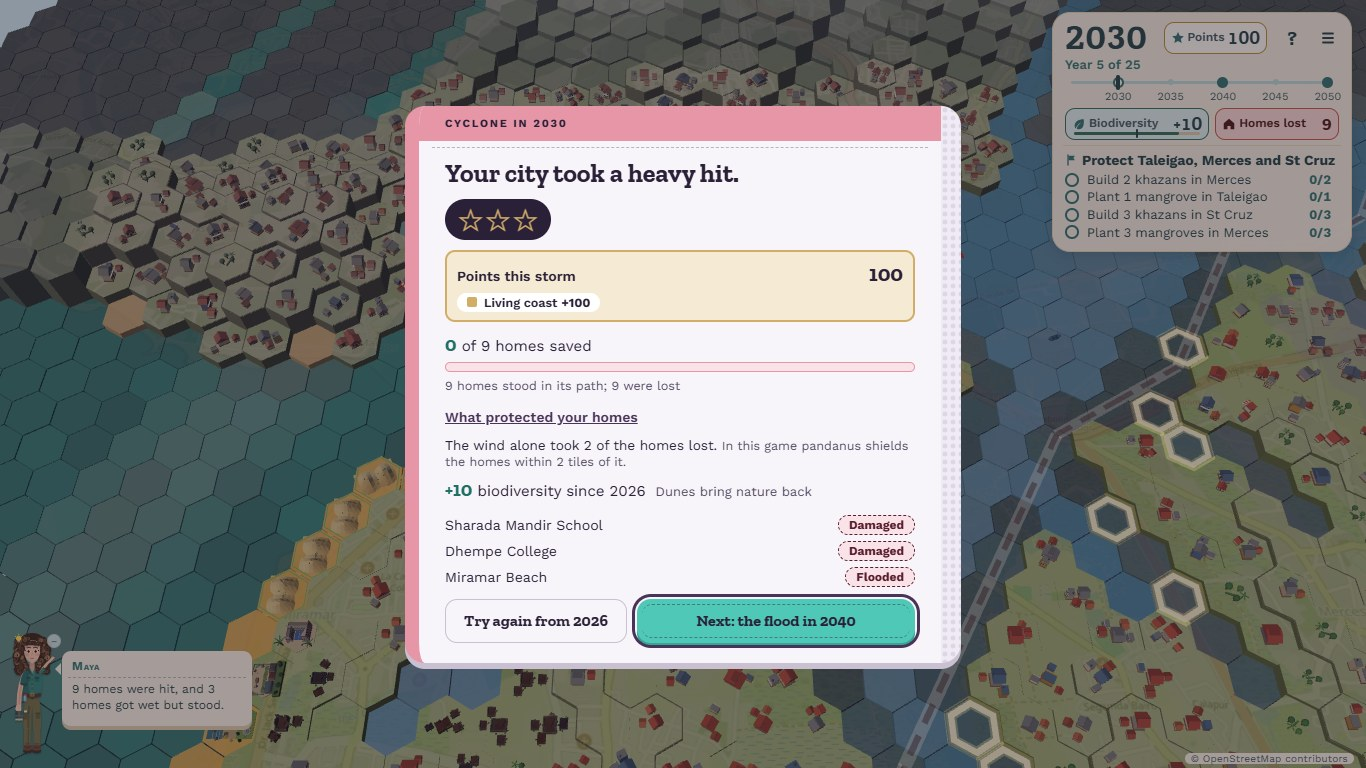
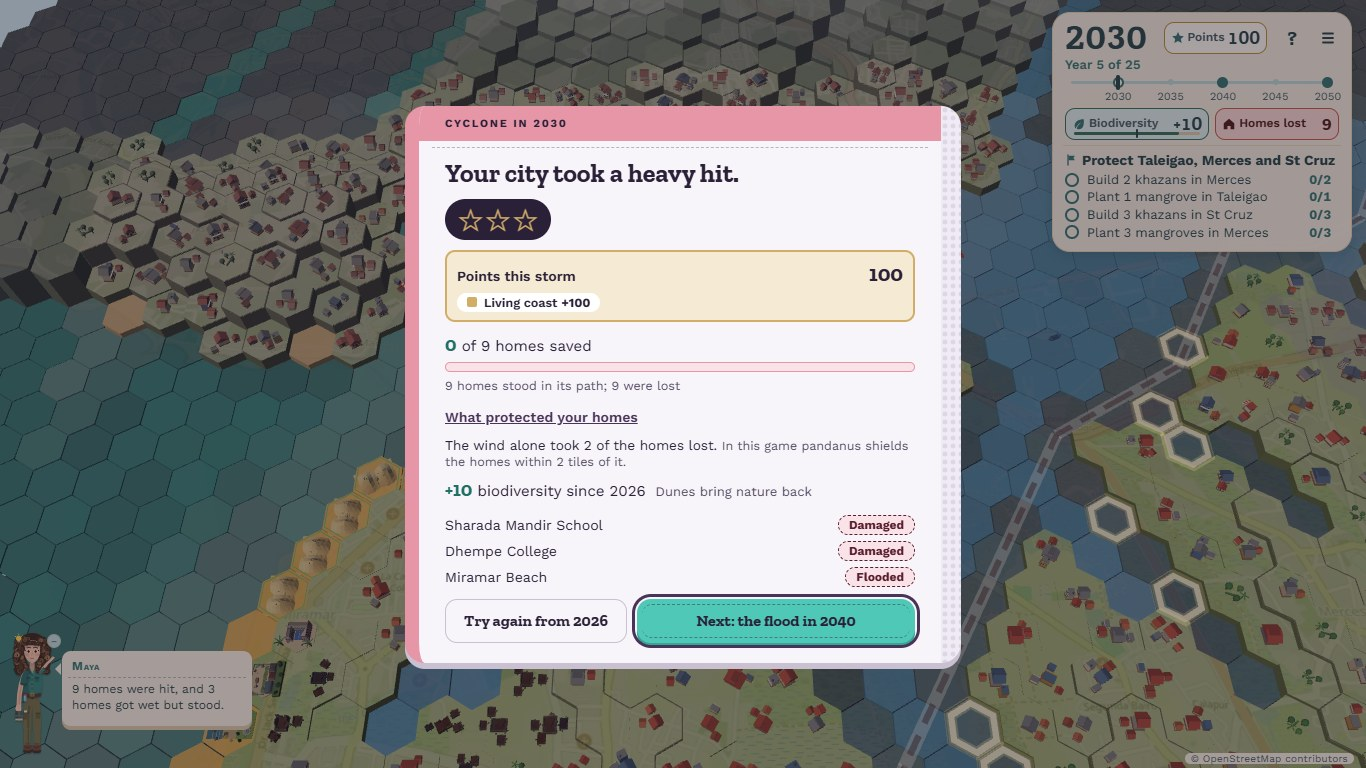
40.7 owner's answers

diff --git a/tests/howToPlay.test.ts b/tests/howToPlay.test.ts
@@ -26,7 +26,9 @@ describe("How to play's numbers", () => {
 
   it("lists the three storms with their years, kinds, places and the turns between them", () => {
     expect(m.storms.map((s) => `${s.year} ${s.label}`)).toEqual(["2030 Cyclone", "2040 Flood", "2050 Both"]);
-    expect(m.storms.map((s) => s.where)).toEqual(["Miramar beach", "down the Mandovi", "cyclone and flood, Campal"]);
+    // Section 40.7 (owner): the place alone, from the level's own storms.
+    expect(m.storms.map((s) => s.where)).toEqual(["Miramar beach", "Ribandar to Taleigao", "Campal"]);
+    expect(m.storms.map((s) => s.where)).toEqual([...panjim.climate!.challenges].sort((a, b) => a.year - b.year).map((c) => c.where));
     expect(m.storms.map((s) => s.turns)).toEqual([5, 10, 10]);
     // The turns add up to the run's builds: the last storm comes at the end of the last year.
     expect(m.storms.reduce((n, s) => n + s.turns, 0)).toBe(m.builds);
@@ -167,6 +169,9 @@ describe("Section 40.3: How to play in three screens", () => {
       "A cyclone and a flood at the same time"
     ]);
     expect([...one.matchAll(/class="howto-storm howto-storm-([a-z]+)"/g)].map((x) => x[1])).toEqual(["cyclone", "flood", "compound"]);
+    // Section 40.7 (owner): the chip under each storm is the place alone; the line above it stays.
+    expect([...one.matchAll(/<span class="howto-storm-where">([^<]+)<\/span>/g)].map((x) => x[1])).toEqual(["Miramar beach", "Ribandar to Taleigao", "Campal"]);
+    for (const chip of one.matchAll(/<span class="howto-storm-where">([^<]+)<\/span>/g)) expect(chip[1]).not.toMatch(/cyclone|flood|Mandovi|down/i);
   });
 
   it("screen 2: the year's three steps, the legend and the seven defenses with their chips, all from the data", () => {
@@ -202,12 +207,18 @@ describe("Section 40.3: How to play in three screens", () => {
       "Wind: comes with every cyclone"
     ]);
     expect(three).toContain("<h3>Get points</h3>");
-    expect(three).toContain(`<b>Save homes</b><p>Every home still standing after a storm scores.</p><span class="howto-point-chip">${POINT_VALUES.home} points a home</span>`);
+    // Section 40.7 (owner): the two lines say the rule; the year is the level's end year, not typed in.
+    expect(three).toContain(`<b>Save homes</b><p>Every home in a storm's path that still stands scores.</p><span class="howto-point-chip">${POINT_VALUES.home} points a home</span>`);
     expect(three).toContain(
-      `<b>Increase biodiversity</b><p>Nature based defenses like mangroves and khazans add Biodiversity Points. Dams and seawalls (concrete and metal) reduce them.</p><span class="howto-point-chip">${POINT_VALUES.biodiversity} points for each Biodiversity Point you add</span>`
+      `<b>Increase biodiversity</b><p>Nature based defenses like mangroves and khazans add Biodiversity Points. Dams and seawalls (concrete and metal) reduce them.</p><span class="howto-point-chip">${POINT_VALUES.biodiversity} points for each Biodiversity Point you add, counted in ${panjim.timeline!.endYear}</span>`
     );
     expect(three).toContain("10 points a home");
-    expect(three).toContain("5 points for each Biodiversity Point you add");
+    expect(three).toContain("5 points for each Biodiversity Point you add, counted in 2050");
+    expect(three).not.toContain("Every home still standing after a storm scores.");
+    // Another level's end year would show: the year comes from the model.
+    const other = howToPlayHtml({ ...m, endYear: 2060 });
+    expect(other).toContain("you add, counted in 2060");
+    expect(readFileSync("src/ui/panjim/howToPlay.ts", "utf8")).toContain("you add, counted in ${m.endYear}</span>");
   });
 
   it("keeps the player text rules: no middle dot, no spaced dash, no hyphen joining words, and defense", () => {

diff --git a/tools/section40Shots.ts b/tools/section40Shots.ts
@@ -221,7 +221,7 @@ try {
     const card = ".result-cards:not([hidden])";
     check((await colour(page, `${card} .result-eyebrow`)) === rgb("#e696a6") && (await colour(page, `${card} .result-eyebrow`, "color")) === rgb("#2a2038"), "the card's band is pink with dark ink");
     check((await colour(page, `${card} .result-stars`)) === rgb("#2a2038") && (await colour(page, `${card} .result-stars`, "color")) === rgb("#d2ad68"), "the stars are gold on a dark pill");
-    check((await colour(page, `${card} .result-bar span`)) === rgb("#4fc8b7") && (await colour(page, `${card} .result-bar`)) === rgb("#fae3e8"), "the homes saved bar: teal on the soft pink track");
+    check((await colour(page, `${card} .result-bar span`)) === rgb("#1f6f64") && (await colour(page, `${card} .result-bar`)) === rgb("#fae3e8"), "the homes saved bar: the dark teal on the soft pink track (Section 40.7)");
     check((await colour(page, `${card} .result-points`)) === rgb("#f5ead3"), "Points this storm sits in the soft gold box");
     check((await colour(page, `${card} .result-next`)) === rgb("#4fc8b7") && (await colour(page, `${card} .result-retry`)) === "rgba(0, 0, 0, 0)", "the main button is teal; Try again is the quiet style");
     const fits = await js<boolean>(page, `(() => { const c = document.querySelector(".result-cards:not([hidden]) .result-card"); const r = c.getBoundingClientRect(); return r.top >= 0 && r.bottom <= innerHeight && c.scrollHeight <= c.clientHeight + 1; })()`);
@@ -300,7 +300,7 @@ try {
       await shot(page, "8b-last-card-board-top", 400);
       // A chosen feedback star.
       await page.click('.fb-row .fb-star[data-value="4"]');
-      check((await colour(page, ".fb-row .fb-star.on")) === rgb("#d2ad68") && (await colour(page, ".fb-row .fb-star:not(.on)")) === rgb("#f7f5f9"), "a chosen star button is gold, an empty one light");
+      check((await colour(page, ".fb-row .fb-star.on")) === rgb("#d2ad68") && (await colour(page, ".fb-row .fb-star:not(.on)")) === rgb("#f7f5f9") && (await colour(page, ".fb-row .fb-star:not(.on)", "borderTopColor")) === rgb("#a075ae"), "a chosen star button is gold, an empty one light with a purple edge (Section 40.7)");
       // The nudge, from a footer button.
       await page.click('.last-action[data-action="exit"]');
       await page.waitForSelector(".result-nudge", { timeout: 10000 });

diff --git a/tests/theme.test.ts b/tests/theme.test.ts
@@ -93,6 +93,16 @@ const FIVE_PAIRS: [string, string, boolean?][] = [
   ["ink-2", "blue-soft"],
   ["ink-2", "purple-soft"]
 ];
+/**
+ * Section 40.7 (owner): marks that are not text but carry meaning, each at 3:1 or better on its ground: the homes
+ * saved bar's fill on its track, the bars on "What protected your homes" on theirs, and an empty feedback star's
+ * outline and edge on its button.
+ */
+const FIVE_MARKS: [string, string][] = [
+  ["good", "warn-soft"],
+  ["good", "panel-shadow"],
+  ["strip", "panel"]
+];
 const FIVE_ALLOWED = new Set(FIVE_PAIRS.map(([t, b]) => `${t}|${b}`));
 /** The variables only the block has. */
 const FIVE_ONLY = Object.keys(FIVE).filter((key) => !(key in CALM));
@@ -178,6 +188,22 @@ describe("Section 40: the five colours on the static screens", () => {
       const ratio = contrast(FIVE[text], FIVE[bg]);
       expect(ratio, `five colours: --${text} on --${bg} is ${ratio.toFixed(2)}:1`).toBeGreaterThanOrEqual(large ? 3 : 4.5);
     }
+  });
+
+  it("Section 40.7: the homes bar's fill and the empty feedback star reach 3:1 on their grounds, as the sheet draws them", () => {
+    for (const [mark, ground] of FIVE_MARKS) {
+      const ratio = contrast(FIVE[mark], FIVE[ground]);
+      expect(ratio, `five colours: the mark --${mark} on --${ground} is ${ratio.toFixed(2)}:1`).toBeGreaterThanOrEqual(3);
+    }
+    const five = fs.readFileSync("src/ui/fiveColours.css", "utf8");
+    // The homes saved bar and the rows' bars share the dark teal.
+    expect(five).toMatch(/\.result-cards \.result-bar \{[^}]*background: var\(--warn-soft\);[^}]*\}\s*\.result-cards \.result-bar span \{\s*background: var\(--good\);/);
+    expect(five).toMatch(/\.result-cards \.result-row-bar span \{\s*background: var\(--good\);/);
+    // The empty star: its edge and its outline star in the purple, on the light button.
+    expect(five).toMatch(/\.result-cards \.fb-star \{\s*border: 1\.5px solid var\(--strip\);\s*background: var\(--panel\);[^}]*-webkit-text-stroke: 1\.2px var\(--strip\);/);
+    // The pairs they replace were too faint.
+    expect(contrast(FIVE.teal, FIVE["warn-soft"])).toBeLessThan(3);
+    expect(contrast(FIVE["panel-shadow"], FIVE.panel)).toBeLessThan(3);
   });
 
   it("purple carries no small text: it is the text of no pair", () => {

diff --git a/src/ui/panjim/howToPlay.ts b/src/ui/panjim/howToPlay.ts
@@ -19,7 +19,7 @@ export interface HowToPlayStorm {
   kind: ChallengeKind;
   /** "Cyclone", "Flood" or "Both". */
   label: string;
-  /** "Miramar beach", from the level's storm. */
+  /** The place alone ("Miramar beach"), from the level's storm. */
   where: string;
   /** Builds from the one before (the start, or the storm before) to this storm: "5 turns". */
   turns: number;
@@ -216,11 +216,11 @@ function screenThree(m: HowToPlayModel): string {
       <div class="howto-points">
         <div class="howto-point howto-point-homes" role="group" aria-label="Save homes">
           <span class="howto-point-icon">${svg(HOUSE, 46)}</span>
-          <div class="howto-point-text"><b>Save homes</b><p>Every home still standing after a storm scores.</p><span class="howto-point-chip">${m.homePoints} points a home</span></div>
+          <div class="howto-point-text"><b>Save homes</b><p>Every home in a storm's path that still stands scores.</p><span class="howto-point-chip">${m.homePoints} points a home</span></div>
         </div>
         <div class="howto-point howto-point-nature" role="group" aria-label="Increase biodiversity">
           <span class="howto-point-icon">${svg(LEAF, 46)}</span>
-          <div class="howto-point-text"><b>Increase biodiversity</b><p>Nature based defenses like mangroves and khazans add Biodiversity Points. Dams and seawalls (concrete and metal) reduce them.</p><span class="howto-point-chip">${m.bioPoints} points for each Biodiversity Point you add</span></div>
+          <div class="howto-point-text"><b>Increase biodiversity</b><p>Nature based defenses like mangroves and khazans add Biodiversity Points. Dams and seawalls (concrete and metal) reduce them.</p><span class="howto-point-chip">${m.bioPoints} points for each Biodiversity Point you add, counted in ${m.endYear}</span></div>
         </div>
       </div>
     </section>`;

diff --git a/src/ui/fiveColours.css b/src/ui/fiveColours.css
@@ -139,7 +139,10 @@
   color: var(--star);
 }
 
-/* Homes saved: a teal fill on a soft pink track with a pink edge. */
+/*
+ * Homes saved: a soft pink track with a pink edge; the fill is the dark teal of the bars on "What protected your
+ * homes" (Section 40.7, owner: the teal was 1.7 to 1 on the track).
+ */
 .result-cards .result-bar {
   box-sizing: border-box;
   background: var(--warn-soft);
@@ -147,7 +150,7 @@
 }
 
 .result-cards .result-bar span {
-  background: var(--teal);
+  background: var(--good);
 }
 
 /* "What protected your homes": each row's bar in the dark teal, which reads on its pale track (the teal did not). */
@@ -257,12 +260,15 @@
   background: var(--strip);
 }
 
-/* A star button: empty, light with an outline star; chosen, gold with a dark star and edge. */
+/*
+ * A star button: empty, light with an outline star; chosen, gold with a dark star and edge. Section 40.7 (owner): the
+ * empty one's star and edge are the purple, 3.4 to 1 on its ground (the pale edge was 1.6 to 1).
+ */
 .result-cards .fb-star {
-  border: 1.5px solid var(--panel-shadow);
+  border: 1.5px solid var(--strip);
   background: var(--panel);
   line-height: 25px;
-  -webkit-text-stroke: 1.2px var(--panel-shadow);
+  -webkit-text-stroke: 1.2px var(--strip);
 }
 
 .result-cards .fb-star.on {

diff --git a/src/core/climate.ts b/src/core/climate.ts
@@ -21,7 +21,7 @@ export interface ChallengeDef {
   kind: ChallengeKind;
   /** The year the storm comes, at its end. */
   year: number;
-  /** Section 39.3: where it comes, under its year on How to play's timeline ("Miramar beach"). */
+  /** Section 39.3: where it comes, on its card in How to play; Section 40.7 (owner): the place alone ("Miramar beach"). */
   where?: string;
   /** Strength on the level's scale (the hazard model's input). Fixed: no baseline, no jitter. */
   strength: number;

diff --git a/docs/NEXT_STEPS.md b/docs/NEXT_STEPS.md
@@ -16,19 +16,17 @@ actually done and noted in the Log (date + one line), not just assumed.
 
 - Not merged: the owner looks at the preview first. Merge with `git merge --no-ff` on the owner's word, then confirm
   Vercel's production deployment. No schema change, so no migration.
-- Owner to answer (the numbered list in QA_REPORT, Section 40): the eyebrow and the Leave title without their bands;
-  the replay card and the idle warning in the new colours over the game; a cap on the board's `top` rows (13 KB for
-  150 rows, 88 KB for 1000, before compression); the two low contrast marks the brief chose (the homes bar's teal on
-  its pink track, the empty feedback star); the twice said lines on two storm cards.
+- The owner answered Section 40's questions (Step 40.7, in QA_REPORT): all settled. Kept as built: the eyebrow and
+  the Leave title as plain text, the replay card and the idle warning in the new colours, the plum dim, no cap on the
+  board's `top` rows, the Tutorial's brief in the game's colours. Changed: the homes bar and the empty feedback star
+  (darker), two lines on How to play 3, the storm chips on How to play 1 (the place alone), CLAUDE.md's Maya line.
 - The mock pictures were not attached to the brief: compare the preview with P1 to P6.
-- The Tutorial is in two palettes now: its result cards and its Leave card take the five colours, its own brief keeps
-  the game's. It is hidden from the menu; say if its brief should follow.
+- The Tutorial is in two palettes: its result cards and its Leave card take the five colours, its own brief keeps
+  the game's (owner: leave it).
 - The QA tools that start Play Panjim must press Next twice (tools/letsPlay.ts). Done for the standing commands
   (walkthrough, test:labels, test:layout, test:maya, verify:maya) and the Section 40 tools; the older
   tools/section*Shots.ts and the rest still click `.brief-cta` at once and stop at How to play. Fix one when a
   section touches it (owner, 30 October).
-- CLAUDE.md still says Maya is locked in the bottom right corner; she has been bottom left since Section 34c.2 (the
-  code, tests/mayaLocked.test.ts and ARCHITECTURE agree). Not touched here: one line for the owner to confirm.
 - The full browser check (walkthrough, labels, axe, four sizes) was not run; Safari and Firefox were not tried (the
   scrollbar's colours and the star pill's `width: fit-content` are the things to look at there).
 

diff --git a/docs/QA_REPORT.md b/docs/QA_REPORT.md
@@ -2848,3 +2848,26 @@ bytes. `top` has no cap; the same answer goes to a post, a rename and `GET /api/
 **Not run:** Safari and Firefox; the full browser check; the bots; test:layout and test:labels; a production load
 (nothing merged). One run of the unit tests made while the frame tool was drawing had two tests fail in one file; the
 same commit passed in full when run alone.
+
+**Step 40.7: the owner's answers.** One commit on the same branch, not merged.
+1. The eyebrow as plain text: keep. 2. Leave Panjim?'s plain title: keep. 3. The replay card and the idle warning:
+keep the new colours. 4. The plum dim: keep. 5. No cap on `top`. 9. The Tutorial's brief: leave it. No change for
+these.
+6. Darkened both. The homes saved bar's fill is `--good`, the dark teal of the bars on "What protected your homes":
+4.9:1 on its pink track (the teal was 1.7:1). An empty feedback star's outline and edge are `--strip`: 3.4:1 on its
+button (the pale edge was 1.6:1). Both pairs, and the rows' bars on their track (3.4:1), are in tests/theme.test.ts
+as marks at 3:1.
+7. How to play 3: "Every home in a storm's path that still stands scores." and "5 points for each Biodiversity Point
+you add, counted in 2050" (the 2050 is the level's end year).
+8. How to play 1: the chip under each storm is the place alone, the level's own `where` (levels.json): "Miramar
+beach", "Ribandar to Taleigao", "Campal". The line above each stays.
+10. CLAUDE.md: Maya is locked in the bottom left corner (Section 34c.2).
+
+| Check | Result |
+|---|---|
+| `npx tsc --noEmit`, `npm run test`, `npm run build` | Clean; 113 files, 981 pass, 6 skipped; clean. The first test run failed one test, the server bundle check, because `where` had changed and the bundle had not been rebuilt; after `npm run build` (which rebuilds it) the whole suite passed. |
+| tools/section40Shots.ts `only=howto,result` at 1366x768 | 24 of 24 checks pass, no console errors. The 2030 scenario saves no home, so its bar is empty in the shot; the check reads the fill as the dark teal. |
+
+Retaken: `3-how-to-play-1`, `5-how-to-play-3`, `7-result-2030` (and `7b`, `4`, which the same run shoots) at 1366x768.
+The 1920x1080 copies of those three and the last card's shots are from before this step. Not run again: the frame
+comparison (no rule outside the static screens' roots changed), test:maya, Safari and Firefox.

diff --git a/docs/PROGRESS.md b/docs/PROGRESS.md
@@ -21,6 +21,13 @@ pictures (P1 to P6) were not attached, so the screens are drawn from the brief's
 - 40.5 The last card's board box lists the board from 1st place down to the player (the server's `around` also
   returns `top`; `RankView.top`), three rows high, scrolled to the player's row, focusable, with "Scroll up to see
   1st place" under it when there are more than three rows. The rows below the player are gone. No schema change.
+- 40.7 The owner's answers: the homes saved bar's fill is the dark teal of the rows' bars and an empty feedback
+  star's outline and edge are the purple (both 3:1 or better on their grounds, both pairs in the theme test); How to
+  play 3 says "Every home in a storm's path that still stands scores." and "5 points for each Biodiversity Point you
+  add, counted in 2050" (the year from the level); How to play 1's chips are the place alone (`where` in levels.json:
+  "Miramar beach", "Ribandar to Taleigao", "Campal"); CLAUDE.md says Maya is bottom left. Kept as built: the eyebrow
+  and the Leave title as plain text, the replay card and the idle warning in the new colours, the plum dim, no cap
+  on `top`, the Tutorial's brief in the game's colours.
 - 40.6 tools/section40Shots.ts (the browser pass), tools/section40Frames.ts (two frozen in game frames on master and
   on the branch: identical), tools/letsPlay.ts (Next, Next, Let's Play! for the QA tools), tools/boardReplySize.ts,
   the reviewer's fixes, the docs.

diff --git a/CLAUDE.md b/CLAUDE.md
@@ -52,8 +52,8 @@ changing anything. `docs/QA_REPORT.md` holds the latest QA evidence.
   in the Panjim game, the start popup, the Tutorial and the result cards; ☰ has her item and M mutes her. The switch
   stays: `VITE_SHOW_MAYA=false` hides her everywhere (`SHOW_MAYA`, `src/services/features.ts`). Her skin is 50%
   fairer (Section 29, a `MAYA_PALETTE` change). The old rule holds: do not redraw her; edit only
-  `src/ui/panjim/mayaArt.ts`, `maya.ts` and `panjim.css`; she is locked in place in the bottom right corner
-  (Section 33b, owner decision; `tests/mayaLocked.test.ts`); her
+  `src/ui/panjim/mayaArt.ts`, `maya.ts` and `panjim.css`; she is locked in place in the bottom left corner
+  (Section 34c.2, owner decision; Section 33b had the bottom right; `tests/mayaLocked.test.ts`); her
   colours come from `MAYA_PALETTE`; whenever a HUD element moves, update `HUD_OBSTACLES` (in `maya.ts`) and her
   layout rules.
 - **Desktop browsers first** (Chrome, Edge, Firefox, Safari; mouse, wheel,
